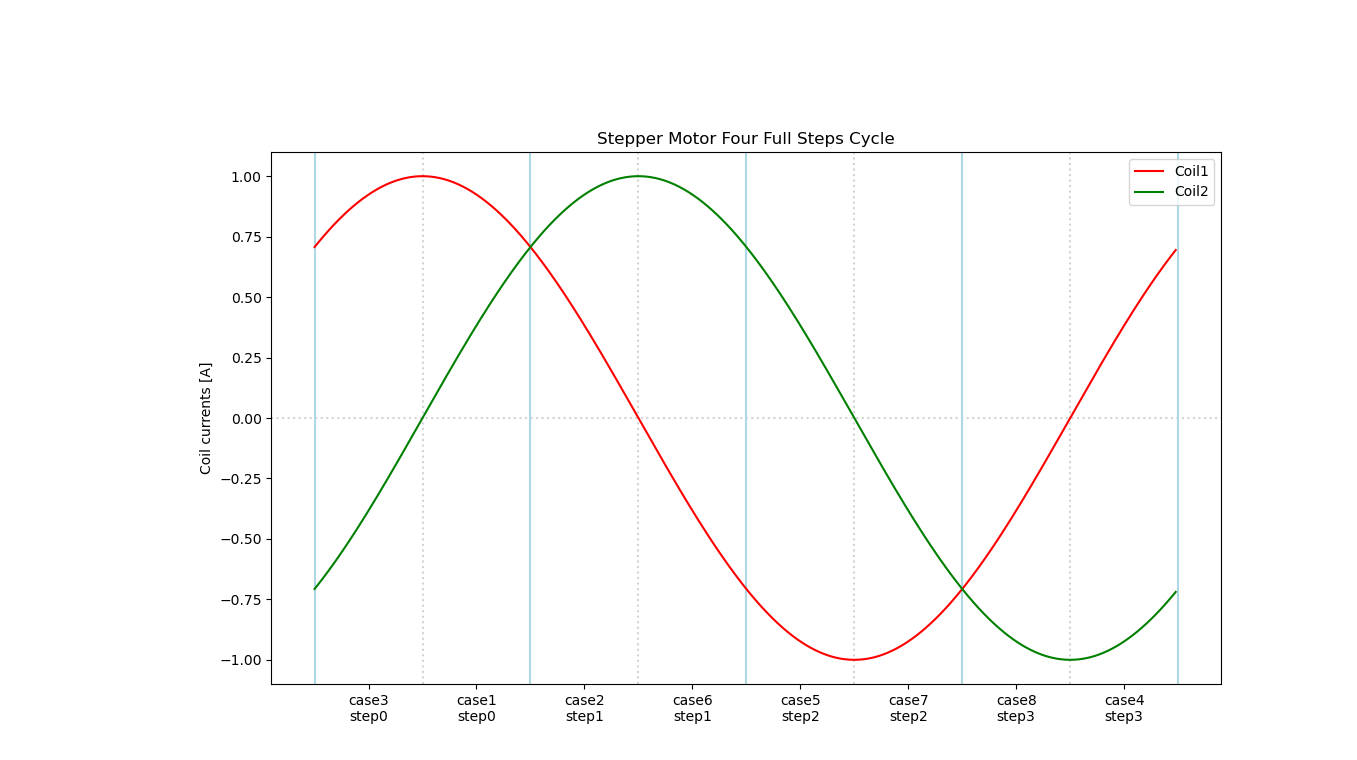
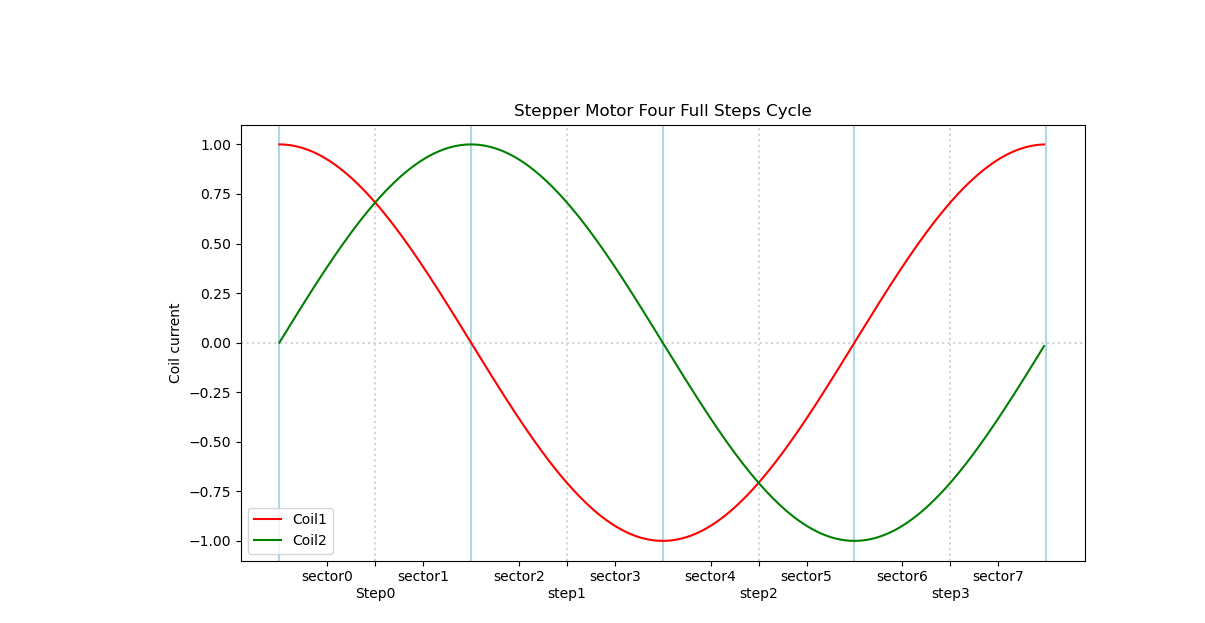
Flushing cleanup of quadrant model.

diff --git a/platformio/src/analyzer/acquisition.cpp b/platformio/src/analyzer/acquisition.cpp
@@ -15,7 +15,7 @@
 
 namespace acquisition {
 
-// Updated by sample_state(). This is the frozen copy of the 
+// Updated by sample_state(). This is the frozen copy of the
 // state the UI can use.
 static State sampled_state;
 
@@ -28,25 +28,26 @@ constexpr float kAmpsPerCount = 1 / kCountsPerAmp;
 
 constexpr float kMilliampsPerCount = 1000 / kCountsPerAmp;
 
-// Energized/non-energized histeresis limits in ADC 
+// Energized/non-energized histeresis limits in ADC
 // counts.
 //
-// TODO: specify limits in milliamps and convert to 
-// ADC ticks.
+// TODO: specify here what the limits are as a percentage
+// of full current scale.
+//
 constexpr uint16_t kNonEnergizedThresholdCounts = 50;
 constexpr uint16_t kEnergizedThresholdCounts = 150;
 
 // Hysteresis for determining quadrant transitions. In
 // milliamps and in ADC counts.
-constexpr int kQuadrantHisteresisMilliamps = 100;
-constexpr int kQuadrantHysteresisCounts =
-    (kQuadrantHisteresisMilliamps * kCountsPerAmp) / 1000;
+// constexpr int kQuadrantHisteresisMilliamps = 100;
+// constexpr int kQuadrantHysteresisCounts =
+//     (kQuadrantHisteresisMilliamps * kCountsPerAmp) / 1000;
 
 // Precompute signed histeresize for transition from the
 // current quadrant q = [0, 2, 3, 3].
-static constexpr int quadrant_v1_histeresis[] = {
-    (kQuadrantHysteresisCounts / 2), (-kQuadrantHysteresisCounts / 2),
-    (kQuadrantHysteresisCounts / 2), (-kQuadrantHysteresisCounts / 2)};
+// static constexpr int quadrant_v1_histeresis[] = {
+//     (kQuadrantHysteresisCounts / 2), (-kQuadrantHysteresisCounts / 2),
+//     (kQuadrantHysteresisCounts / 2), (-kQuadrantHysteresisCounts / 2)};
 
 // Allowed range for adc zero current offset setting.
 // This range is wider than needed and actual offsets
@@ -80,9 +81,9 @@ struct IsrData {
   // Time out for waiting for trigger in divided ADC ticks.
   uint32_t capture_pre_trigger_items_left = 0;
   // Factor to divide ADC ticks. Only every n'th sample is captured.
-  uint16_t capture_divider = 1;      
-  // Up counter for capturing only every n'th samples.  
-  uint16_t capture_divider_counter = 0;  
+  uint16_t capture_divider = 1;
+  // Up counter for capturing only every n'th samples.
+  uint16_t capture_divider_counter = 0;
   // Capturing state.
   CaptureState capture_state = CAPTURE_IDLE;
   // The capture buffer itself. Updated by ISR when state != CAPTURE_IDLE
@@ -159,8 +160,8 @@ float adc_value_to_amps(int adc_value) {
 void calibrate_zeros() {
   __disable_irq();
   {
-    isr_data.settings.offset1 += isr_data.state.display_v1;
-    isr_data.settings.offset2 += isr_data.state.display_v2;
+    isr_data.settings.offset1 += isr_data.state.v1;
+    isr_data.settings.offset2 += isr_data.state.v2;
   }
   __enable_irq();
 }
@@ -184,11 +185,10 @@ void dump_sampled_state() {
   Serial.printf(
       "[%lu][er:%lu] [%5d, %5d] [en:%d %lu] s:%d/%d  steps:%d max_steps:%d\n",
       sampled_state.tick_count - last_tick_count,
-      sampled_state.quadrature_errors, sampled_state.display_v1,
-      sampled_state.display_v2, sampled_state.is_energized,
-      sampled_state.non_energized_count, sampled_state.quadrant,
-      sampled_state.last_step_direction, sampled_state.full_steps,
-      sampled_state.max_full_steps);
+      sampled_state.quadrature_errors, sampled_state.v1, sampled_state.v2,
+      sampled_state.is_energized, sampled_state.non_energized_count,
+      sampled_state.quadrant, sampled_state.last_step_direction,
+      sampled_state.full_steps, sampled_state.max_full_steps);
 
   last_tick_count = sampled_state.tick_count;
 
@@ -231,7 +231,8 @@ void dump_capture(const CaptureBuffer& buffer) {
 // Maybe add step's information to the histogram.
 // Called from isr on step transition.
 inline void isr_add_step_to_histogram(int quadrant, Direction entry_direction,
-                                      Direction exit_direction, uint32_t ticks_in_step,
+                                      Direction exit_direction,
+                                      uint32_t ticks_in_step,
                                       uint32_t max_current_in_step) {
   // Ignoring this step if not entering and exiting this step in same forward or
   // backward direction.
@@ -239,7 +240,8 @@ inline void isr_add_step_to_histogram(int quadrant, Direction entry_direction,
       entry_direction == UNKNOWN_DIRECTION) {
     return;
   }
-  uint32_t steps_per_sec = TicksPerSecond / ticks_in_step;  // speed in steps per second
+  uint32_t steps_per_sec =
+      TicksPerSecond / ticks_in_step;  // speed in steps per second
   if (steps_per_sec < 10) {
     return;  // ignore very slow steps as they dominate the time.
   }
@@ -282,8 +284,8 @@ static filters::Adc12BitsLowPassFilter<700> signal1_filter;
 static filters::Adc12BitsLowPassFilter<400> signal2_filter;
 
 // Slow filter, for display purposes.
-static filters::Adc12BitsLowPassFilter<1023> display1_filter;
-static filters::Adc12BitsLowPassFilter<1023> display2_filter;
+// static filters::Adc12BitsLowPassFilter<1023> display1_filter;
+// static filters::Adc12BitsLowPassFilter<1023> display2_filter;
 
 // This function performs the bulk of the IRQ processing. It accepts
 // one pair of ADC1, ADC2 readings, analyzes it, and updates the
@@ -298,10 +300,10 @@ void isr_handle_one_sample(const uint16_t raw_v1, const uint16_t raw_v2) {
       (uint16_t)signal2_filter.update(raw_v2) - isr_data.settings.offset2;
 
   // Slower filtering for display purposes.
-  isr_data.state.display_v1 =
-      (uint16_t)display1_filter.update(raw_v1) - isr_data.settings.offset1;
-  isr_data.state.display_v2 =
-      (uint16_t)display2_filter.update(raw_v2) - isr_data.settings.offset2;
+  isr_data.state.v1 = v1;
+  //   (uint16_t)display1_filter.update(raw_v1) - isr_data.settings.offset1;
+  isr_data.state.v2 = v2;
+  // (uint16_t)display2_filter.update(raw_v2) - isr_data.settings.offset2;
 
   // Handle signal capturing.
   // Release: 220ns, Debug: 1100ns.  (TODO: update timing for current code)
@@ -365,8 +367,9 @@ void isr_handle_one_sample(const uint16_t raw_v1, const uint16_t raw_v2) {
   const bool old_is_energized = isr_data.state.is_energized;
   const uint16_t total_current = abs(v1) + abs(v2);
   // Using histeresis.
-  const uint16_t energized_threshold =
-      old_is_energized ? kNonEnergizedThresholdCounts : kEnergizedThresholdCounts;
+  const uint16_t energized_threshold = old_is_energized
+                                           ? kNonEnergizedThresholdCounts
+                                           : kEnergizedThresholdCounts;
   const bool new_is_energized = total_current > energized_threshold;
   isr_data.state.is_energized = new_is_energized;
 
@@ -384,62 +387,72 @@ void isr_handle_one_sample(const uint16_t raw_v1, const uint16_t raw_v2) {
     return;
   }
 
-  // Here when energized. Decode quadrant. See quadrants_plot.png
-  // in this repository for more details.
-  const int old_quadrant = isr_data.state.quadrant;  // old quadrant [0, 3]
-  const int v1_hysteresis = quadrant_v1_histeresis[old_quadrant];
-  // We now go through a decision tree to collect the new quadrant and
-  // max coil current. Optimized for speed. See quadrants_plot.png
+  // Here when energized. Decode quadrant. 
+  // We now go through a decision tree to collect the new quadrant, sector
+  // and max coil current. Optimized for speed. See quadrants_plot.png
   // for the individual cases.
-  int new_quadrant;      // set below to [0, 3]
+  uint8_t new_quadrant;  // set below to [0, 3]
+  uint8_t new_sector;    // set below to [0, 7]
   uint32_t max_current;  // max coil current
-  if (v1 >= 0) {
-    if (v2 >= 0) {
-      if ((v1 + v1_hysteresis) > v2) {
-        // Case 1: v1 > 0, V2 > 0.  |v1| > |v2|
-        new_quadrant = 0;
+  if (v2 >= 0) {
+    if (v1 >= 0) {
+      // Quadrant 0: v1 > 0, V2 > 0.
+      new_quadrant = 0;
+      if (v1 > v2) {
+        // Sector 0: v1 > 0, V2 > 0.  |v1| > |v2|
+        new_sector = 0;
         max_current = v1;
       } else {
-        // Case 2: v1 > 0, V2 > 0.  |v2| > |v1|
-        new_quadrant = 1;
+        // Sector 1: v1 > 0, V2 > 0.  |v1| < |v2|
+        new_sector = 1;
         max_current = v2;
       }
     } else {
-      if ((v1 + v1_hysteresis) > -v2) {
-        // Case 3: v1 > 0, V2 < 0.  |v1| > |v2|
-        new_quadrant = 0;
-        max_current = v1;
+      // Quadrant 1: v1 < 0, V2 > 0
+      new_quadrant = 1;
+      if (-v1 < v2) {
+        // Sector 2: v1 < 0, V2 > 0.  |v1| < |v2|
+        new_sector = 2;
+        max_current = v2;
       } else {
-        // Case 4: v1 > 0, V2 < 0.  |v2| > |v1|
-        new_quadrant = 3;
-        max_current = -v2;
+        // Sector 3: v1 < 0, V2 > 0.  |v1| > |v2|
+        new_sector = 3;
+        max_current = -v1;
       }
     }
   } else {
-    if (v2 >= 0) {
-      if ((-v1 + v1_hysteresis) > v2) {
-        // Case 5: v1 < 0, V2 > 0.  |v1| > |v2|
-        new_quadrant = 2;
+    if (v1 < 0) {
+      // Quadrant 2:  v1 < 0, V2 < 0
+      new_quadrant = 2;
+      if (-v1 > -v2) {
+        // Sector 4: v1 < 0, V2 < 0.  |v1| > |v2|
+        new_sector = 4;
         max_current = -v1;
       } else {
-        // Case 6: v1 < 0, V2 > 0.  |v2| > |v1|
-        new_quadrant = 1;
-        max_current = v2;
+        // Sector 5: v1 < 0, V2 < 0.  |v1| < |v2|
+        new_sector = 5;
+        max_current = -v2;
       }
     } else {
-      if ((-v1 + v1_hysteresis) > -v2) {
-        // Case 7: v1 < 0, V2 < 0.  |v1| > |v2|
-        new_quadrant = 2;
-        max_current = -v1;
-      } else {
-        new_quadrant = 3;
+      // Quadrant 3 v1 > 0, V2 < 0.
+      new_quadrant = 3;
+      if (v1 < -v2) {
+        // Sector 6: v1 > 1, V2 < 0.  |v1| < |v2|
+        new_sector = 6;
         max_current = -v2;
+      } else {
+        // Sector 7: v1 > 0, V2 < 0.  |v1| > |v2|
+        new_sector = 7;
+        max_current = v1;
       }
     }
   }
+
   isr_data.state.quadrant = new_quadrant;
+  isr_data.state.sector = new_sector;
 
   // Track quadrant transitions and steps.
+  const int8_t old_quadrant = isr_data.state.quadrant;  // old quadrant [0, 3]
   if (!old_is_energized) {
     // Case 1: motor just became energized. Direction is still not known.
     isr_data.state.last_step_direction = UNKNOWN_DIRECTION;

diff --git a/tools/quadrants_plot.py b/tools/quadrants_plot.py
@@ -14,19 +14,19 @@ import matplotlib.pyplot as plt
 import numpy as np
 
 x = np.arange(0, 360, 1)   # start,stop,step, in deg
-v1 = np.cos((x - 45) * np.pi / 180)
-v2 = np.sin((x - 45) * np.pi / 180)
-xq = (x - 45) / 90  # quadrants
+v1 = np.cos((x) * np.pi / 180)
+v2 = np.sin((x) * np.pi / 180)
+xq = x / 90  # quadrants
 
 fig = plt.figure()
 ax = fig.add_axes([0.2, 0.1, 0.7, 0.7])  # main axes
 
 plt.axhline(y=0,  linestyle=":", color='lightgray')
 
-for xb in [0, 1, 2, 3]:
+for xb in [0.5, 1.5, 2.5, 3.5]:
     plt.axvline(x=xb, linestyle=":", color='lightgray')
 
-for xb in [-0.5, 0.5, 1.5, 2.5, 3.5]:
+for xb in [0.0, 1.0, 2.0, 3.0, 4.0]:
     plt.axvline(x=xb, linestyle="-", color='lightblue')
 
 ax.plot(xq, v1, color='red', label='Coil1')
@@ -34,13 +34,12 @@ ax.plot(xq, v2, color='green', label='Coil2')
 plt.legend()
 
 plt.title('Stepper Motor Four Full Steps Cycle')
-#plt.xlabel('Full steps')
-plt.ylabel('Coil currents [A]')
+plt.ylabel('Coil current')
 
-ax.set_xticks([-0.25, 0.25, 0.75, 1.25, 1.75, 2.25, 2.75, 3.25])
-ax.set_xticklabels(['case3\nstep0', 'case1\nstep0',
-                    'case2\nstep1', 'case6\nstep1',
-                    'case5\nstep2', 'case7\nstep2',
-                    'case8\nstep3', 'case4\nstep3'])
+ax.set_xticks([0.25, 0.5, 0.75, 1.25, 1.5, 1.75, 2.25, 2.5, 2.75, 3.25, 3.5, 3.75])
+ax.set_xticklabels(['sector0', '\nStep0', 'sector1',
+                    'sector2', '\nstep1', 'sector3',
+                    'sector4', '\nstep2', 'sector5',
+                    'sector6', '\nstep3', 'sector7'])
 
 plt.show()

diff --git a/platformio/src/analyzer/acquisition.h b/platformio/src/analyzer/acquisition.h
@@ -93,11 +93,12 @@ struct State {
  public:
   State()
       : tick_count(0),
-        display_v1(0),
-        display_v2(0),
+        v1(0),
+        v2(0),
         is_energized(false),
         non_energized_count(0),
         quadrant(0),
+        sector(0),
         full_steps(0),
         max_full_steps(0),
         max_retraction_steps(0),
@@ -111,18 +112,22 @@ struct State {
   // Number of ADC pair samples since last data reset. This is
   // also a proxy for the time passed.
   uint32_t tick_count;
-  // Slow filtered values of current v1, v2, in adc count units.
-  // Used for UI purposes.
-  int16_t display_v1;
-  int16_t display_v2;
+  // Signed current values in ADC count units.  When the stepper 
+  // is energized, these values together with the sector value 
+  // below can be used to compute the fractional step value.
+  int16_t v1;
+  int16_t v2;
   // True if the coils are energized. Determined by the sum
   // of the absolute values of a pair of current readings.
   bool is_energized;
   // Number of times coils were de-energized.
   uint32_t non_energized_count;
-  // The current quadrant in the range [0, 1, 2, 3]. Each quadrant
+  // The last quadrant in the range [0, 3]. Each quadrant
   // represents a full step. See quadrants_plot.png  for details.
   int8_t quadrant;
+  // The last sector in the range [0, 7]. Each sector
+  // represents a half step. See quadrants_plot.png  for details.
+  int8_t sector;
   // Total (forward - backward) full steps. This is a proxy
   // for the overall distance.
   int full_steps;

diff --git a/platformio/src/ui/home_screen.cpp b/platformio/src/ui/home_screen.cpp
@@ -79,9 +79,9 @@ void HomeScreen::loop() {
   // Sample data and update screen.
   const acquisition::State* state = acquisition::sample_state();
 
-  ch_a_field_.set_text_float(acquisition::adc_value_to_amps(state->display_v1),
+  ch_a_field_.set_text_float(acquisition::adc_value_to_amps(state->v1),
                              2);
-  ch_b_field_.set_text_float(acquisition::adc_value_to_amps(state->display_v2),
+  ch_b_field_.set_text_float(acquisition::adc_value_to_amps(state->v2),
                              2);
 
   errors_field_.set_text_uint(state->quadrature_errors);

diff --git a/platformio/src/ui/settings_screen.cpp b/platformio/src/ui/settings_screen.cpp
@@ -148,8 +148,8 @@ void SettingsScreen::loop() {
   // Sample data and update screen.
   const acquisition::State* state = acquisition::sample_state();
 
-  ch_a_field_.set_text_float(acquisition::adc_value_to_amps(state->display_v1),
+  ch_a_field_.set_text_float(acquisition::adc_value_to_amps(state->v1),
                              2);
-  ch_b_field_.set_text_float(acquisition::adc_value_to_amps(state->display_v2),
+  ch_b_field_.set_text_float(acquisition::adc_value_to_amps(state->v2),
                              2);
 }
